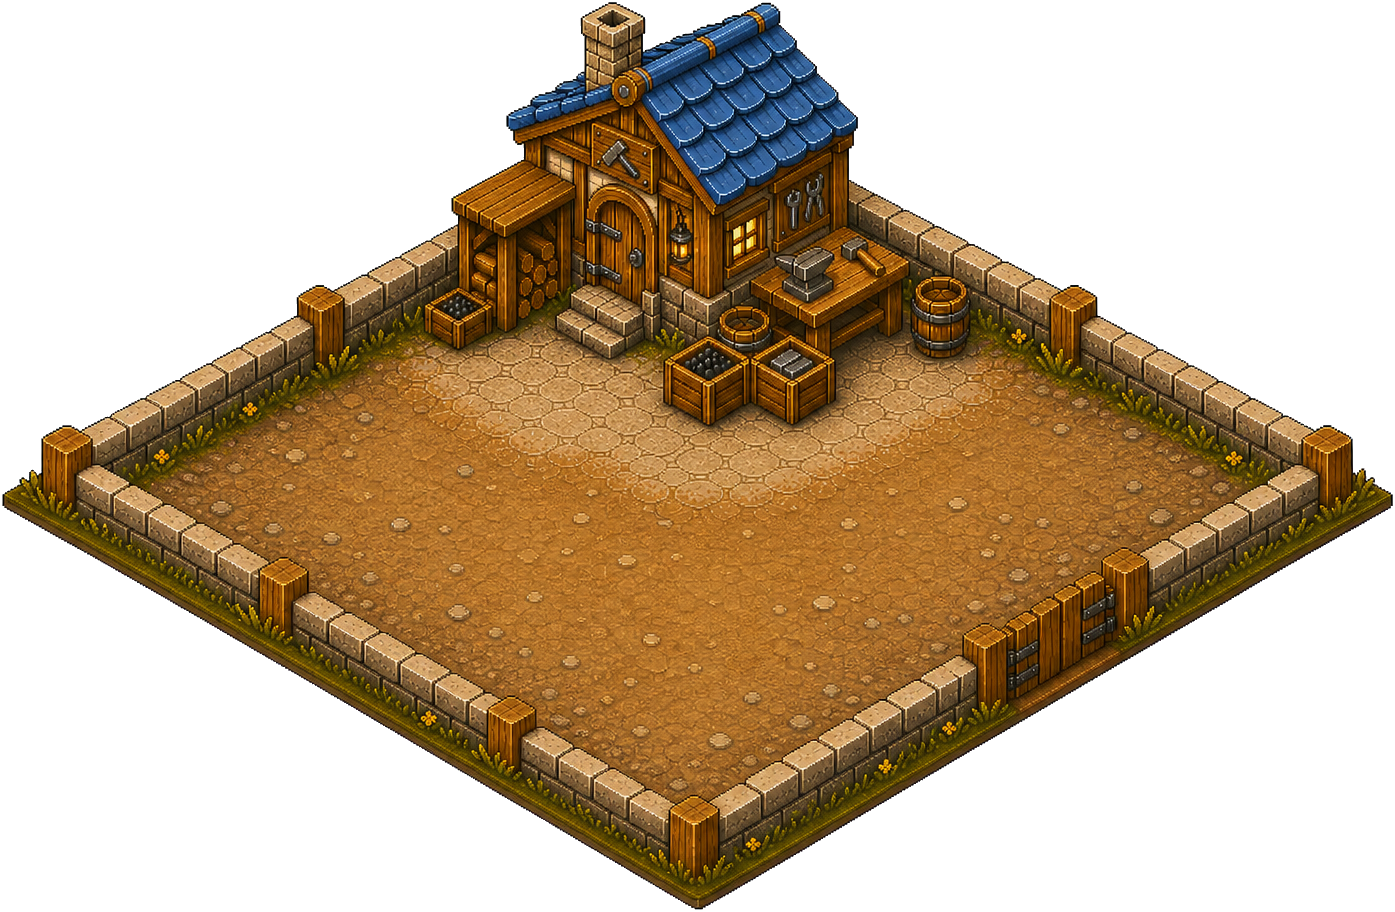
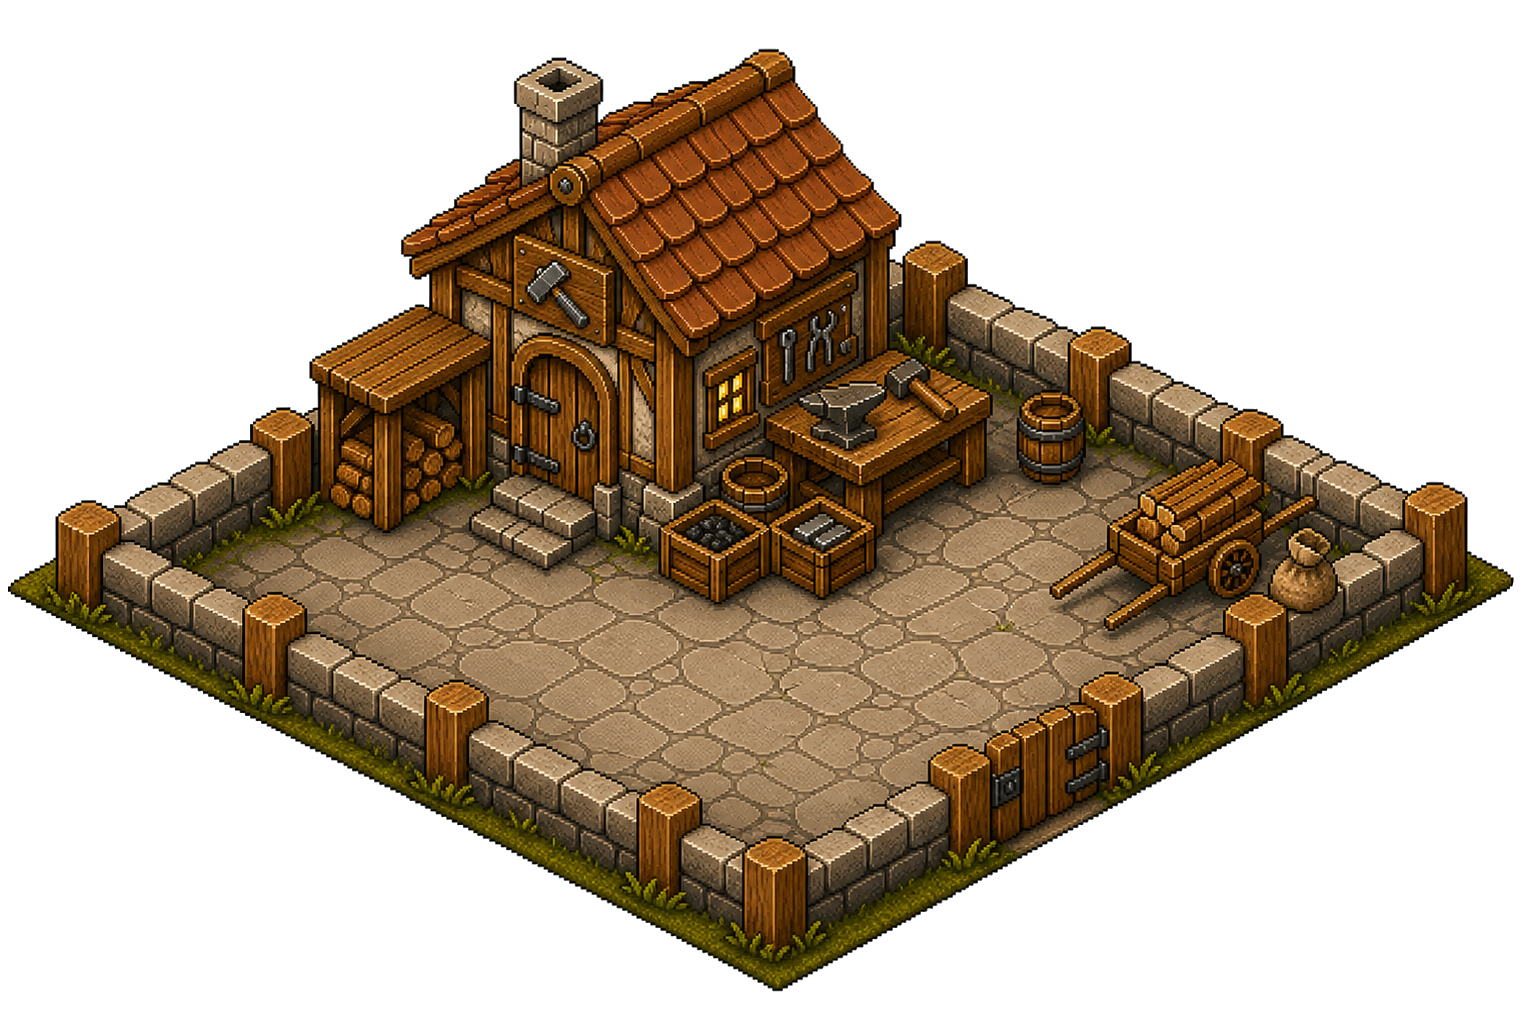
lsjdlk

diff --git a/src/app/city/map-canvas.component.ts b/src/app/city/map-canvas.component.ts
@@ -35,6 +35,14 @@ type TerrainObjectArt = {
   height: number;
 };
 
+type BuildingImageBox = {
+  x: number;
+  y: number;
+  w: number;
+  h: number;
+  src?: string;
+};
+
 const terrainAlternates = (dir: string, count: number, width: number, height: number): TerrainObjectArt[] =>
   Array.from({ length: count }, (_, index) => ({
     file: `${dir}/alternative-${index + 1}.png`,
@@ -224,6 +232,8 @@ export class MapCanvasComponent implements OnInit, OnDestroy {
   private visualHitTiles: Tile[] = [];
   private visualHitVersion = -1;
   private visualHitCity?: City;
+  private hitCanvas?: HTMLCanvasElement;
+  private hitCtx?: CanvasRenderingContext2D;
   private hoverTile?: { i: number, j: number };
   private redrawScheduled = false;
   private resizeObserver?: ResizeObserver;
@@ -382,8 +392,9 @@ export class MapCanvasComponent implements OnInit, OnDestroy {
     for (const tile of this.visualBuildingHitTiles()) {
       const building = tile.building;
       if (!building || building.type === BuildingType.ROAD) continue;
-      const b = this.buildingVisualBounds(tile, building);
+      const b = this.buildingImageBox(tile, building);
       if (p.x < b.x || p.x > b.x + b.w || p.y < b.y || p.y > b.y + b.h) continue;
+      if (!this.imageBoxContainsOpaquePixel(b, p.x, p.y)) continue;
       const depth = this.buildingDepth(tile, building);
       const order = tile.i * this.city.w + tile.j;
       if (!hit || depth > hit.depth || (depth === hit.depth && order > hit.order)) {
@@ -660,7 +671,7 @@ export class MapCanvasComponent implements OnInit, OnDestroy {
     return (t.i + size - 1) + (t.j + size - 1);
   }
 
-  private buildingVisualBounds(t: Tile, b: Building): { x: number, y: number, w: number, h: number } {
+  private buildingImageBox(t: Tile, b: Building): BuildingImageBox {
     const type = b.type;
     const size = GetBuildingSize(type);
     const base = this.tileObjectBase(t.i, t.j, size);
@@ -670,28 +681,89 @@ export class MapCanvasComponent implements OnInit, OnDestroy {
 
     if (IsFarmBuilding(type) && size > 1) {
       const animal = IsAnimalFarm(type);
-      const w = size * ISO_TILE_W * (animal ? 0.94 : 0.98);
+      const grove = type === BuildingType.APPLE_ORCHARD;
+      const w = size * ISO_TILE_W * (animal ? 0.94 : 0.95);
       const h = animal
         ? Math.max(size * ISO_TILE_H * 3.0, size * TILE * 1.6)
-        : Math.max(size * ISO_TILE_H * 3.08, size * TILE * 1.64);
-      return { x: base.x - w / 2, y: base.y - h * (animal ? 0.71 : 0.69), w, h };
+        : Math.max(size * ISO_TILE_H * 2.98, size * TILE * 1.58);
+      return {
+        x: base.x - w / 2,
+        y: base.y - h * (grove ? 0.69 : 0.71),
+        w,
+        h,
+        src: animal ? ANIMAL_FARM_ICON : grove ? GROVE_FARM_ICON : CROP_FARM_ICON,
+      };
     }
     if (IsSeaProductionBuilding(type)) {
       const wharfSize = 2;
       const wharfBase = this.tileObjectBase(t.i, t.j, wharfSize);
       const w = wharfSize * ISO_TILE_W * 0.94;
       const h = Math.max(wharfSize * ISO_TILE_H * 2.7, wharfSize * TILE * 1.44);
-      return { x: wharfBase.x - w / 2, y: wharfBase.y - h * 0.74, w, h };
+      const overscan = 0.04;
+      const x = wharfBase.x - w / 2;
+      const y = wharfBase.y - h * 0.74;
+      return { x: x - w * overscan, y: y - h * overscan, w: w * (1 + 2 * overscan), h: h * (1 + 2 * overscan), src: FISHERMEN_WHARF_ICON };
     }
     if (IsMineCampBuilding(type) && size > 1) {
       const w = W * 0.91, h = H * 0.91;
-      return { x: base.x - w / 2, y: y + H * 0.20, w, h };
+      const overscan = 0.04;
+      const bx = base.x - w / 2;
+      const by = y + H * 0.20;
+      return { x: bx - w * overscan, y: by - h * overscan, w: w * (1 + 2 * overscan), h: h * (1 + 2 * overscan), src: MINE_CAMP_ICON };
     }
     if (IsWorkshopBuilding(type) && size > 1) {
-      const w = W * 0.90, h = H * 0.90;
-      return { x: base.x - w / 2, y: y + H * 0.22, w, h };
+      const foodWorkshop = IsFoodWorkshopBuilding(type);
+      const scale = foodWorkshop ? 0.90 : 0.882;
+      const w = W * scale, h = H * scale;
+      const overscan = 0.04;
+      const bx = base.x - w / 2;
+      const by = y + H * (foodWorkshop ? 0.22 : 0.23);
+      return {
+        x: bx - w * overscan,
+        y: by - h * overscan,
+        w: w * (1 + 2 * overscan),
+        h: h * (1 + 2 * overscan),
+        src: foodWorkshop ? FOOD_WORKSHOP_ICON : WORKSHOP_ICON,
+      };
     }
-    return { x, y, w: W, h: H };
+    if (type === BuildingType.WAREHOUSE) {
+      const warehouseW = W * 0.98;
+      const warehouseH = H * 0.98;
+      const warehouseX = base.x - warehouseW / 2;
+      const lowerY = y + H * 0.16;
+      return { x: warehouseX + 1, y: lowerY + 1, w: warehouseW - 2, h: warehouseH - 2, src: this.artSrc(b) };
+    }
+    return { x: x + 1, y: y + 1, w: W - 2, h: H - 2, src: this.artSrc(b) };
+  }
+
+  private imageBoxContainsOpaquePixel(box: BuildingImageBox, worldX: number, worldY: number): boolean {
+    if (!box.src) return true;
+    const im = this.img(box.src);
+    if (!ready(im)) return true;
+
+    const s = Math.min(box.w / im!.naturalWidth, box.h / im!.naturalHeight);
+    const w = im!.naturalWidth * s;
+    const h = im!.naturalHeight * s;
+    const ox = box.x + (box.w - w) / 2;
+    const oy = box.y + (box.h - h) / 2;
+    if (worldX < ox || worldX > ox + w || worldY < oy || worldY > oy + h) return false;
+
+    const sx = Math.min(im!.naturalWidth - 1, Math.max(0, Math.floor((worldX - ox) / s)));
+    const sy = Math.min(im!.naturalHeight - 1, Math.max(0, Math.floor((worldY - oy) / s)));
+    const ctx = this.hitContext();
+    ctx.clearRect(0, 0, 1, 1);
+    ctx.drawImage(im!, sx, sy, 1, 1, 0, 0, 1, 1);
+    return ctx.getImageData(0, 0, 1, 1).data[3] > 12;
+  }
+
+  private hitContext(): CanvasRenderingContext2D {
+    if (!this.hitCanvas) {
+      this.hitCanvas = document.createElement('canvas');
+      this.hitCanvas.width = 1;
+      this.hitCanvas.height = 1;
+      this.hitCtx = this.hitCanvas.getContext('2d', { willReadFrequently: true })!;
+    }
+    return this.hitCtx!;
   }
 
   // Draw a tile-sized sprite at (x,y), rotated `rot` × 90° clockwise about its
@@ -762,7 +834,7 @@ export class MapCanvasComponent implements OnInit, OnDestroy {
         ? Math.max(size * ISO_TILE_H * 3.0, size * TILE * 1.6)
         : Math.max(size * ISO_TILE_H * 2.98, size * TILE * 1.58);
       const farmX = base.x - farmW / 2;
-      const farmY = base.y - farmH * (animal ? 0.71 : 0.71);
+      const farmY = base.y - farmH * (grove ? 0.69 : 0.71);
       this.drawComposite(b, this.img(animal ? ANIMAL_FARM_ICON : grove ? GROVE_FARM_ICON : CROP_FARM_ICON),
                          farmX, farmY, farmW, farmH, animal ? 'animalFarm' : grove ? 'groveFarm' : 'cropFarm');
       return;

diff --git a/public/assets/lib/_meta/buildings/isometric-generation-log.md b/public/assets/lib/_meta/buildings/isometric-generation-log.md
@@ -402,3 +402,23 @@
 - Source cache: `/Users/xinranhu/.codex/generated_images/019f0fc8-9a9c-7e83-a912-404cb6942456/ig_02a03c9aea68cb1e016a417dc41e08819088c0144a9ba51e4f.png`
 - Runtime copy: `public/assets/used/buildings/food-processing-workshop.png`
 - Result note: pulls the yard back from the over-flattened panorama toward a normal isometric square footprint: a clearer 1:2 diamond/parallelogram with about 30 degree edge direction, while preserving the open bakery courtyard and back-edge bakery/oven props.
+
+- Follow-up feedback: very close; make it just a bit more flat.
+- Saved processed revision: `public/assets/lib/buildings/food-processing-workshop/v5-slightly-flatter-1to2-diamond.png`
+- Source cache: `/Users/xinranhu/.codex/generated_images/019f0fc8-9a9c-7e83-a912-404cb6942456/ig_0f64d7c857be1ccc016a417ef7aae48193a03bbdc9d4751633.png`
+- Runtime copy: `public/assets/used/buildings/food-processing-workshop.png`
+- Result note: preserves the v4 composition and bakery/oven placement while nudging the yard slightly flatter, keeping the footprint close to the intended 1:2 isometric diamond rather than returning to the earlier over-flattened panorama.
+
+- Follow-up feedback: v5 reads as a rectangle; make the yard a square.
+- Saved processed revision: `public/assets/lib/buildings/food-processing-workshop/v6-square-diamond-yard.png`
+- Source cache: `/Users/xinranhu/.codex/generated_images/019f0fc8-9a9c-7e83-a912-404cb6942456/ig_06c3bbb8421c33c9016a4188e0142c8190808c6212f2b7edde.png`
+- Runtime copy: `public/assets/used/buildings/food-processing-workshop.png`
+- Result note: corrects the stretched rectangular courtyard back to a compact isometric square diamond footprint with equal-feeling side lengths, while preserving the bakery, oven, press, shelf, and open courtyard identity.
+
+## 2026-06-28 - Grove Farm Roomy Uncut Corners
+
+- User feedback: redraw the current grove farm and make sure no corner is cut off.
+- Saved processed revision: `public/assets/lib/buildings/grove-farm/v28-roomy-uncut-corners.png`
+- Source cache: `/Users/xinranhu/.codex/generated_images/019f0fda-32e4-7572-82ed-a823dfda1f5c/ig_09db1c9af2fecdaa016a418062be048197b130ea1a6f8487ac.png`
+- Runtime copy: `public/assets/used/buildings/grove-farm.png`
+- Result note: preserves the v27 grove identity with the green-roof produce stand, three branch trees, front-right gate, and fenced dirt yard, but regenerates from a roomier white-background source. The background was removed to alpha, the visible asset was trimmed with a small transparent guard band, and all fence/footprint corners remain fully visible.